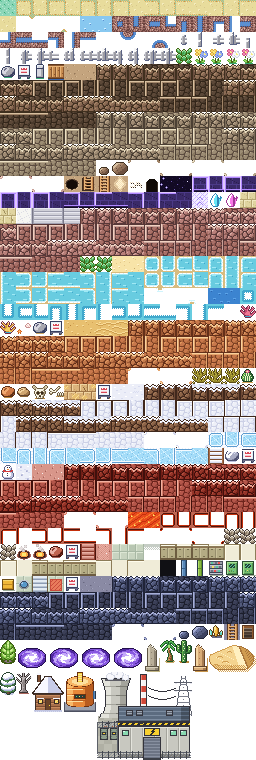
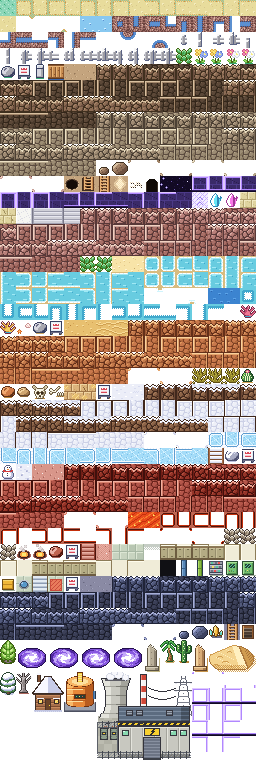
fix(safari): Ultra Space floor outlines continuous — bottom lip drawn after the side glow (no 2px overshoot at outer corners), new inner-corner overlays uplatc*, light-path edge overlays upathe* (placed in the free space right of the 2nd big-art row: every other tile keeps its position and bytes)
Claude-Session: https://claude.ai/code/session_01PyWJXhh4uoM1MhwTZs3jNF

Changed region(s): [[0.75, 0.8776, 1.0, 0.9987]]

diff --git a/web/img/safari-tiles.js b/web/img/safari-tiles.js
@@ -1,2 +1,2 @@
 // tools/build_safari_tiles.py 가 만듦 — 고치지 말 것. 타일 이름 → [x, y, w, h] (web/img/safari-tiles.png)
-export default {"ground":[0,0,16,16],"sand0":[16,0,16,16],"sand1":[32,0,16,16],"sand2":[48,0,16,16],"sand3":[64,0,16,16],"sand4":[80,0,16,16],"sand5":[96,0,16,16],"sand6":[112,0,16,16],"sand7":[128,0,16,16],"sand8":[144,0,16,16],"sand9":[160,0,16,16],"sand10":[176,0,16,16],"sand11":[192,0,16,16],"sand12":[208,0,16,16],"sand13":[224,0,16,16],"sand14":[240,0,16,16],"sand15":[0,16,16,16],"sandcne":[16,16,16,16],"sandcnw":[32,16,16,16],"sandcse":[48,16,16,16],"sandcsw":[64,16,16,16],"water0":[80,16,16,16],"water1":[96,16,16,16],"shore0":[112,16,16,16],"shore1":[128,16,16,16],"shore2":[144,16,16,16],"shore3":[160,16,16,16],"shore4":[176,16,16,16],"shore5":[192,16,16,16],"shore6":[208,16,16,16],"shore7":[224,16,16,16],"shore8":[240,16,16,16],"shore9":[0,32,16,16],"shore10":[16,32,16,16],"shore11":[32,32,16,16],"shore12":[48,32,16,16],"shore13":[64,32,16,16],"shore14":[80,32,16,16],"shore15":[96,32,16,16],"shorecne":[112,32,16,16],"shorecnw":[128,32,16,16],"shorecse":[144,32,16,16],"shorecsw":[160,32,16,16],"fence0":[176,32,16,16],"fence1":[192,32,16,16],"fence2":[208,32,16,16],"fence3":[224,32,16,16],"fence4":[240,32,16,16],"fence5":[0,48,16,16],"fence6":[16,48,16,16],"fence7":[32,48,16,16],"fence8":[48,48,16,16],"fence9":[64,48,16,16],"fence10":[80,48,16,16],"fence11":[96,48,16,16],"fence12":[112,48,16,16],"fence13":[128,48,16,16],"fence14":[144,48,16,16],"fence15":[160,48,16,16],"tall":[176,48,16,16],"flowerA0":[192,48,16,16],"flowerA1":[208,48,16,16],"flowerB0":[224,48,16,16],"flowerB1":[240,48,16,16],"rock":[0,64,16,16],"sign":[16,64,16,16],"post":[32,64,16,16],"bridge":[48,64,16,16],"cfloor0":[64,64,16,16],"cfloor1":[80,64,16,16],"cwall0_0":[96,64,16,16],"cwall0_1":[112,64,16,16],"cwall0_2":[128,64,16,16],"cwall1_0":[144,64,16,16],"cwall1_1":[160,64,16,16],"cwall1_2":[176,64,16,16],"cwall2_0":[192,64,16,16],"cwall2_1":[208,64,16,16],"cwall2_2":[224,64,16,16],"cwall3_0":[240,64,16,16],"cwall3_1":[0,80,16,16],"cwall3_2":[16,80,16,16],"cwall4_0":[32,80,16,16],"cwall4_1":[48,80,16,16],"cwall4_2":[64,80,16,16],"cwall5_0":[80,80,16,16],"cwall5_1":[96,80,16,16],"cwall5_2":[112,80,16,16],"cwall6_0":[128,80,16,16],"cwall6_1":[144,80,16,16],"cwall6_2":[160,80,16,16],"cwall7_0":[176,80,16,16],"cwall7_1":[192,80,16,16],"cwall7_2":[208,80,16,16],"cwall8_0":[224,80,16,16],"cwall8_1":[240,80,16,16],"cwall8_2":[0,96,16,16],"cwall9_0":[16,96,16,16],"cwall9_1":[32,96,16,16],"cwall9_2":[48,96,16,16],"cwall10_0":[64,96,16,16],"cwall10_1":[80,96,16,16],"cwall10_2":[96,96,16,16],"cwall11_0":[112,96,16,16],"cwall11_1":[128,96,16,16],"cwall11_2":[144,96,16,16],"cwall12_0":[160,96,16,16],"cwall12_1":[176,96,16,16],"cwall12_2":[192,96,16,16],"cwall13_0":[208,96,16,16],"cwall13_1":[224,96,16,16],"cwall13_2":[240,96,16,16],"cwall14_0":[0,112,16,16],"cwall14_1":[16,112,16,16],"cwall14_2":[32,112,16,16],"cwall15_0":[48,112,16,16],"cwall15_1":[64,112,16,16],"cwall15_2":[80,112,16,16],"mwall0_0":[96,112,16,16],"mwall0_1":[112,112,16,16],"mwall0_2":[128,112,16,16],"mwall1_0":[144,112,16,16],"mwall1_1":[160,112,16,16],"mwall1_2":[176,112,16,16],"mwall2_0":[192,112,16,16],"mwall2_1":[208,112,16,16],"mwall2_2":[224,112,16,16],"mwall3_0":[240,112,16,16],"mwall3_1":[0,128,16,16],"mwall3_2":[16,128,16,16],"mwall4_0":[32,128,16,16],"mwall4_1":[48,128,16,16],"mwall4_2":[64,128,16,16],"mwall5_0":[80,128,16,16],"mwall5_1":[96,128,16,16],"mwall5_2":[112,128,16,16],"mwall6_0":[128,128,16,16],"mwall6_1":[144,128,16,16],"mwall6_2":[160,128,16,16],"mwall7_0":[176,128,16,16],"mwall7_1":[192,128,16,16],"mwall7_2":[208,128,16,16],"mwall8_0":[224,128,16,16],"mwall8_1":[240,128,16,16],"mwall8_2":[0,144,16,16],"mwall9_0":[16,144,16,16],"mwall9_1":[32,144,16,16],"mwall9_2":[48,144,16,16],"mwall10_0":[64,144,16,16],"mwall10_1":[80,144,16,16],"mwall10_2":[96,144,16,16],"mwall11_0":[112,144,16,16],"mwall11_1":[128,144,16,16],"mwall11_2":[144,144,16,16],"mwall12_0":[160,144,16,16],"mwall12_1":[176,144,16,16],"mwall12_2":[192,144,16,16],"mwall13_0":[208,144,16,16],"mwall13_1":[224,144,16,16],"mwall13_2":[240,144,16,16],"mwall14_0":[0,160,16,16],"mwall14_1":[16,160,16,16],"mwall14_2":[32,160,16,16],"mwall15_0":[48,160,16,16],"mwall15_1":[64,160,16,16],"mwall15_2":[80,160,16,16],"crock":[96,160,16,16],"cboulder":[112,160,16,16],"cwallcnw":[128,160,16,16],"cwallcne":[144,160,16,16],"cwallcsw":[160,160,16,16],"cwallcse":[176,160,16,16],"mwallcnw":[192,160,16,16],"mwallcne":[208,160,16,16],"mwallcsw":[224,160,16,16],"mwallcse":[240,160,16,16],"pwallcnw":[0,176,16,16],"pwallcne":[16,176,16,16],"pwallcsw":[32,176,16,16],"pwallcse":[48,176,16,16],"chole":[64,176,16,16],"cladderD":[80,176,16,16],"cladderU":[96,176,16,16],"cexit":[112,176,16,16],"cbraille":[128,176,16,16],"mouth":[144,176,16,16],"uvoid0":[160,176,16,16],"uvoid1":[176,176,16,16],"uplat0":[192,176,16,16],"uplat1":[208,176,16,16],"uplat2":[224,176,16,16],"uplat3":[240,176,16,16],"uplat4":[0,192,16,16],"uplat5":[16,192,16,16],"uplat6":[32,192,16,16],"uplat7":[48,192,16,16],"uplat8":[64,192,16,16],"uplat9":[80,192,16,16],"uplat10":[96,192,16,16],"uplat11":[112,192,16,16],"uplat12":[128,192,16,16],"uplat13":[144,192,16,16],"uplat14":[160,192,16,16],"uplat15":[176,192,16,16],"upath":[192,192,16,16],"ucrystalA":[208,192,16,16],"ucrystalB":[224,192,16,16],"sfloor0":[240,192,16,16],"sfloor1":[0,208,16,16],"saltar":[16,208,16,16],"sstairsL":[32,208,16,16],"sstairsR":[48,208,16,16],"sstairsC":[64,208,16,16],"pwall0_0":[80,208,16,16],"pwall0_1":[96,208,16,16],"pwall0_2":[112,208,16,16],"pwall1_0":[128,208,16,16],"pwall1_1":[144,208,16,16],"pwall1_2":[160,208,16,16],"pwall2_0":[176,208,16,16],"pwall2_1":[192,208,16,16],"pwall2_2":[208,208,16,16],"pwall3_0":[224,208,16,16],"pwall3_1":[240,208,16,16],"pwall3_2":[0,224,16,16],"pwall4_0":[16,224,16,16],"pwall4_1":[32,224,16,16],"pwall4_2":[48,224,16,16],"pwall5_0":[64,224,16,16],"pwall5_1":[80,224,16,16],"pwall5_2":[96,224,16,16],"pwall6_0":[112,224,16,16],"pwall6_1":[128,224,16,16],"pwall6_2":[144,224,16,16],"pwall7_0":[160,224,16,16],"pwall7_1":[176,224,16,16],"pwall7_2":[192,224,16,16],"pwall8_0":[208,224,16,16],"pwall8_1":[224,224,16,16],"pwall8_2":[240,224,16,16],"pwall9_0":[0,240,16,16],"pwall9_1":[16,240,16,16],"pwall9_2":[32,240,16,16],"pwall10_0":[48,240,16,16],"pwall10_1":[64,240,16,16],"pwall10_2":[80,240,16,16],"pwall11_0":[96,240,16,16],"pwall11_1":[112,240,16,16],"pwall11_2":[128,240,16,16],"pwall12_0":[144,240,16,16],"pwall12_1":[160,240,16,16],"pwall12_2":[176,240,16,16],"pwall13_0":[192,240,16,16],"pwall13_1":[208,240,16,16],"pwall13_2":[224,240,16,16],"pwall14_0":[240,240,16,16],"pwall14_1":[0,256,16,16],"pwall14_2":[16,256,16,16],"pwall15_0":[32,256,16,16],"pwall15_1":[48,256,16,16],"pwall15_2":[64,256,16,16],"tallR0":[80,256,16,16],"tallR1":[96,256,16,16],"bsand0":[112,256,16,16],"bsand1":[128,256,16,16],"bshal0_0":[144,256,16,16],"bshal1_0":[160,256,16,16],"bshal2_0":[176,256,16,16],"bshal3_0":[192,256,16,16],"bshal4_0":[208,256,16,16],"bshal5_0":[224,256,16,16],"bshal6_0":[240,256,16,16],"bshal7_0":[0,272,16,16],"bshal8_0":[16,272,16,16],"bshal9_0":[32,272,16,16],"bshal10_0":[48,272,16,16],"bshal11_0":[64,272,16,16],"bshal12_0":[80,272,16,16],"bshal13_0":[96,272,16,16],"bshal14_0":[112,272,16,16],"bshal15_0":[128,272,16,16],"bshal0_1":[144,272,16,16],"bshal1_1":[160,272,16,16],"bshal2_1":[176,272,16,16],"bshal3_1":[192,272,16,16],"bshal4_1":[208,272,16,16],"bshal5_1":[224,272,16,16],"bshal6_1":[240,272,16,16],"bshal7_1":[0,288,16,16],"bshal8_1":[16,288,16,16],"bshal9_1":[32,288,16,16],"bshal10_1":[48,288,16,16],"bshal11_1":[64,288,16,16],"bshal12_1":[80,288,16,16],"bshal13_1":[96,288,16,16],"bshal14_1":[112,288,16,16],"bshal15_1":[128,288,16,16],"bshalcne":[144,288,16,16],"bshalcnw":[160,288,16,16],"bshalcse":[176,288,16,16],"bshalcsw":[192,288,16,16],"bdeep0":[208,288,16,16],"bdeep1":[224,288,16,16],"bdeepe0":[240,288,16,16],"bdeepe1":[0,304,16,16],"bdeepe2":[16,304,16,16],"bdeepe3":[32,304,16,16],"bdeepe4":[48,304,16,16],"bdeepe5":[64,304,16,16],"bdeepe6":[80,304,16,16],"bdeepe7":[96,304,16,16],"bdeepe8":[112,304,16,16],"bdeepe9":[128,304,16,16],"bdeepe10":[144,304,16,16],"bdeepe11":[160,304,16,16],"bdeepe12":[176,304,16,16],"bdeepe13":[192,304,16,16],"bdeepe14":[208,304,16,16],"bdeepe15":[224,304,16,16],"bcoralA":[240,304,16,16],"bcoralB":[0,320,16,16],"bshell":[16,320,16,16],"brock":[32,320,16,16],"bsign":[48,320,16,16],"dsand0":[64,320,16,16],"dsand1":[80,320,16,16],"dripple0":[96,320,16,16],"dripple1":[112,320,16,16],"dwall0_0":[128,320,16,16],"dwall0_1":[144,320,16,16],"dwall0_2":[160,320,16,16],"dwall1_0":[176,320,16,16],"dwall1_1":[192,320,16,16],"dwall1_2":[208,320,16,16],"dwall2_0":[224,320,16,16],"dwall2_1":[240,320,16,16],"dwall2_2":[0,336,16,16],"dwall3_0":[16,336,16,16],"dwall3_1":[32,336,16,16],"dwall3_2":[48,336,16,16],"dwall4_0":[64,336,16,16],"dwall4_1":[80,336,16,16],"dwall4_2":[96,336,16,16],"dwall5_0":[112,336,16,16],"dwall5_1":[128,336,16,16],"dwall5_2":[144,336,16,16],"dwall6_0":[160,336,16,16],"dwall6_1":[176,336,16,16],"dwall6_2":[192,336,16,16],"dwall7_0":[208,336,16,16],"dwall7_1":[224,336,16,16],"dwall7_2":[240,336,16,16],"dwall8_0":[0,352,16,16],"dwall8_1":[16,352,16,16],"dwall8_2":[32,352,16,16],"dwall9_0":[48,352,16,16],"dwall9_1":[64,352,16,16],"dwall9_2":[80,352,16,16],"dwall10_0":[96,352,16,16],"dwall10_1":[112,352,16,16],"dwall10_2":[128,352,16,16],"dwall11_0":[144,352,16,16],"dwall11_1":[160,352,16,16],"dwall11_2":[176,352,16,16],"dwall12_0":[192,352,16,16],"dwall12_1":[208,352,16,16],"dwall12_2":[224,352,16,16],"dwall13_0":[240,352,16,16],"dwall13_1":[0,368,16,16],"dwall13_2":[16,368,16,16],"dwall14_0":[32,368,16,16],"dwall14_1":[48,368,16,16],"dwall14_2":[64,368,16,16],"dwall15_0":[80,368,16,16],"dwall15_1":[96,368,16,16],"dwall15_2":[112,368,16,16],"dwallcnw":[128,368,16,16],"dwallcne":[144,368,16,16],"dwallcsw":[160,368,16,16],"dwallcse":[176,368,16,16],"dgrass":[192,368,16,16],"dgrassR0":[208,368,16,16],"dgrassR1":[224,368,16,16],"dcactusS":[240,368,16,16],"drock":[0,384,16,16],"drubble":[16,384,16,16],"dskull":[32,384,16,16],"dbones":[48,384,16,16],"druin0":[64,384,16,16],"druin1":[80,384,16,16],"dsign":[96,384,16,16],"snground0":[112,384,16,16],"snground1":[128,384,16,16],"swall0_0":[144,384,16,16],"swall0_1":[160,384,16,16],"swall0_2":[176,384,16,16],"swall1_0":[192,384,16,16],"swall1_1":[208,384,16,16],"swall1_2":[224,384,16,16],"swall2_0":[240,384,16,16],"swall2_1":[0,400,16,16],"swall2_2":[16,400,16,16],"swall3_0":[32,400,16,16],"swall3_1":[48,400,16,16],"swall3_2":[64,400,16,16],"swall4_0":[80,400,16,16],"swall4_1":[96,400,16,16],"swall4_2":[112,400,16,16],"swall5_0":[128,400,16,16],"swall5_1":[144,400,16,16],"swall5_2":[160,400,16,16],"swall6_0":[176,400,16,16],"swall6_1":[192,400,16,16],"swall6_2":[208,400,16,16],"swall7_0":[224,400,16,16],"swall7_1":[240,400,16,16],"swall7_2":[0,416,16,16],"swall8_0":[16,416,16,16],"swall8_1":[32,416,16,16],"swall8_2":[48,416,16,16],"swall9_0":[64,416,16,16],"swall9_1":[80,416,16,16],"swall9_2":[96,416,16,16],"swall10_0":[112,416,16,16],"swall10_1":[128,416,16,16],"swall10_2":[144,416,16,16],"swall11_0":[160,416,16,16],"swall11_1":[176,416,16,16],"swall11_2":[192,416,16,16],"swall12_0":[208,416,16,16],"swall12_1":[224,416,16,16],"swall12_2":[240,416,16,16],"swall13_0":[0,432,16,16],"swall13_1":[16,432,16,16],"swall13_2":[32,432,16,16],"swall14_0":[48,432,16,16],"swall14_1":[64,432,16,16],"swall14_2":[80,432,16,16],"swall15_0":[96,432,16,16],"swall15_1":[112,432,16,16],"swall15_2":[128,432,16,16],"swallcnw":[144,432,16,16],"swallcne":[160,432,16,16],"swallcsw":[176,432,16,16],"swallcse":[192,432,16,16],"snice0":[208,432,16,16],"snice1":[224,432,16,16],"snice2":[240,432,16,16],"snice3":[0,448,16,16],"snice4":[16,448,16,16],"snice5":[32,448,16,16],"snice6":[48,448,16,16],"snice7":[64,448,16,16],"snice8":[80,448,16,16],"snice9":[96,448,16,16],"snice10":[112,448,16,16],"snice11":[128,448,16,16],"snice12":[144,448,16,16],"snice13":[160,448,16,16],"snice14":[176,448,16,16],"snice15":[192,448,16,16],"snstairs":[208,448,16,16],"snrock":[224,448,16,16],"snsign":[240,448,16,16],"snman":[0,464,16,16],"snexit":[16,464,16,16],"lvground0":[32,464,16,16],"lvground1":[48,464,16,16],"lwall0_0":[64,464,16,16],"lwall0_1":[80,464,16,16],"lwall0_2":[96,464,16,16],"lwall1_0":[112,464,16,16],"lwall1_1":[128,464,16,16],"lwall1_2":[144,464,16,16],"lwall2_0":[160,464,16,16],"lwall2_1":[176,464,16,16],"lwall2_2":[192,464,16,16],"lwall3_0":[208,464,16,16],"lwall3_1":[224,464,16,16],"lwall3_2":[240,464,16,16],"lwall4_0":[0,480,16,16],"lwall4_1":[16,480,16,16],"lwall4_2":[32,480,16,16],"lwall5_0":[48,480,16,16],"lwall5_1":[64,480,16,16],"lwall5_2":[80,480,16,16],"lwall6_0":[96,480,16,16],"lwall6_1":[112,480,16,16],"lwall6_2":[128,480,16,16],"lwall7_0":[144,480,16,16],"lwall7_1":[160,480,16,16],"lwall7_2":[176,480,16,16],"lwall8_0":[192,480,16,16],"lwall8_1":[208,480,16,16],"lwall8_2":[224,480,16,16],"lwall9_0":[240,480,16,16],"lwall9_1":[0,496,16,16],"lwall9_2":[16,496,16,16],"lwall10_0":[32,496,16,16],"lwall10_1":[48,496,16,16],"lwall10_2":[64,496,16,16],"lwall11_0":[80,496,16,16],"lwall11_1":[96,496,16,16],"lwall11_2":[112,496,16,16],"lwall12_0":[128,496,16,16],"lwall12_1":[144,496,16,16],"lwall12_2":[160,496,16,16],"lwall13_0":[176,496,16,16],"lwall13_1":[192,496,16,16],"lwall13_2":[208,496,16,16],"lwall14_0":[224,496,16,16],"lwall14_1":[240,496,16,16],"lwall14_2":[0,512,16,16],"lwall15_0":[16,512,16,16],"lwall15_1":[32,512,16,16],"lwall15_2":[48,512,16,16],"lwallcnw":[64,512,16,16],"lwallcne":[80,512,16,16],"lwallcsw":[96,512,16,16],"lwallcse":[112,512,16,16],"lava0":[128,512,16,16],"lava1":[144,512,16,16],"lavae0":[160,512,16,16],"lavae1":[176,512,16,16],"lavae2":[192,512,16,16],"lavae3":[208,512,16,16],"lavae4":[224,512,16,16],"lavae5":[240,512,16,16],"lavae6":[0,528,16,16],"lavae7":[16,528,16,16],"lavae8":[32,528,16,16],"lavae9":[48,528,16,16],"lavae10":[64,528,16,16],"lavae11":[80,528,16,16],"lavae12":[96,528,16,16],"lavae13":[112,528,16,16],"lavae14":[128,528,16,16],"lavae15":[144,528,16,16],"lavacnw":[160,528,16,16],"lavacne":[176,528,16,16],"lavacsw":[192,528,16,16],"lavacse":[208,528,16,16],"lvgrass":[224,528,16,16],"lvgrassR0":[240,528,16,16],"lvgrassR1":[0,544,16,16],"lvvent0":[16,544,16,16],"lvvent1":[32,544,16,16],"lvrock":[48,544,16,16],"lvsign":[64,544,16,16],"lvstairs":[80,544,16,16],"lvexit":[96,544,16,16],"plfloor0":[112,544,16,16],"plfloor1":[128,544,16,16],"plshadow":[144,544,16,16],"plw0":[160,544,16,16],"plw1":[176,544,16,16],"plw2":[192,544,16,16],"plw3":[208,544,16,16],"plw4":[224,544,16,16],"plw5":[240,544,16,16],"plw6":[0,560,16,16],"plw7":[16,560,16,16],"plw8":[32,560,16,16],"plw9":[48,560,16,16],"plw10":[64,560,16,16],"plw11":[80,560,16,16],"plw12":[96,560,16,16],"plw13":[112,560,16,16],"plw14":[128,560,16,16],"plw15":[144,560,16,16],"plvoid":[160,560,16,16],"plpipeB":[176,560,16,16],"plpipeG":[192,560,16,16],"plrack":[208,560,16,16],"plcon0":[224,560,16,16],"plcon1":[240,560,16,16],"plcrate":[0,576,16,16],"plswitch":[16,576,16,16],"plstairs":[32,576,16,16],"plexit":[48,576,16,16],"plsign":[64,576,16,16],"efloor0":[80,576,16,16],"efloor1":[96,576,16,16],"ewall0_0":[112,576,16,16],"ewall0_1":[128,576,16,16],"ewall0_2":[144,576,16,16],"ewall1_0":[160,576,16,16],"ewall1_1":[176,576,16,16],"ewall1_2":[192,576,16,16],"ewall2_0":[208,576,16,16],"ewall2_1":[224,576,16,16],"ewall2_2":[240,576,16,16],"ewall3_0":[0,592,16,16],"ewall3_1":[16,592,16,16],"ewall3_2":[32,592,16,16],"ewall4_0":[48,592,16,16],"ewall4_1":[64,592,16,16],"ewall4_2":[80,592,16,16],"ewall5_0":[96,592,16,16],"ewall5_1":[112,592,16,16],"ewall5_2":[128,592,16,16],"ewall6_0":[144,592,16,16],"ewall6_1":[160,592,16,16],"ewall6_2":[176,592,16,16],"ewall7_0":[192,592,16,16],"ewall7_1":[208,592,16,16],"ewall7_2":[224,592,16,16],"ewall8_0":[240,592,16,16],"ewall8_1":[0,608,16,16],"ewall8_2":[16,608,16,16],"ewall9_0":[32,608,16,16],"ewall9_1":[48,608,16,16],"ewall9_2":[64,608,16,16],"ewall10_0":[80,608,16,16],"ewall10_1":[96,608,16,16],"ewall10_2":[112,608,16,16],"ewall11_0":[128,608,16,16],"ewall11_1":[144,608,16,16],"ewall11_2":[160,608,16,16],"ewall12_0":[176,608,16,16],"ewall12_1":[192,608,16,16],"ewall12_2":[208,608,16,16],"ewall13_0":[224,608,16,16],"ewall13_1":[240,608,16,16],"ewall13_2":[0,624,16,16],"ewall14_0":[16,624,16,16],"ewall14_1":[32,624,16,16],"ewall14_2":[48,624,16,16],"ewall15_0":[64,624,16,16],"ewall15_1":[80,624,16,16],"ewall15_2":[96,624,16,16],"ewallcnw":[112,624,16,16],"ewallcne":[128,624,16,16],"ewallcsw":[144,624,16,16],"ewallcse":[160,624,16,16],"erock":[176,624,16,16],"eboulder":[192,624,16,16],"ecrystal":[208,624,16,16],"eladder":[224,624,16,16],"bstair":[240,624,16,16],"tree":[0,640,16,24],"worm0":[16,640,32,32],"worm1":[48,640,32,32],"worm2":[80,640,32,32],"worm3":[112,640,32,32],"spillar":[144,640,16,32],"palm":[160,640,16,24],"dcactus":[176,640,16,24],"dpillar":[192,640,16,32],"ddune":[208,640,48,32],"snpine":[0,672,16,24],"lvtree":[16,672,16,24],"sncabin":[32,672,32,40],"plgen":[64,672,32,40],"plbuild":[96,672,96,88]};
+export default {"ground":[0,0,16,16],"sand0":[16,0,16,16],"sand1":[32,0,16,16],"sand2":[48,0,16,16],"sand3":[64,0,16,16],"sand4":[80,0,16,16],"sand5":[96,0,16,16],"sand6":[112,0,16,16],"sand7":[128,0,16,16],"sand8":[144,0,16,16],"sand9":[160,0,16,16],"sand10":[176,0,16,16],"sand11":[192,0,16,16],"sand12":[208,0,16,16],"sand13":[224,0,16,16],"sand14":[240,0,16,16],"sand15":[0,16,16,16],"sandcne":[16,16,16,16],"sandcnw":[32,16,16,16],"sandcse":[48,16,16,16],"sandcsw":[64,16,16,16],"water0":[80,16,16,16],"water1":[96,16,16,16],"shore0":[112,16,16,16],"shore1":[128,16,16,16],"shore2":[144,16,16,16],"shore3":[160,16,16,16],"shore4":[176,16,16,16],"shore5":[192,16,16,16],"shore6":[208,16,16,16],"shore7":[224,16,16,16],"shore8":[240,16,16,16],"shore9":[0,32,16,16],"shore10":[16,32,16,16],"shore11":[32,32,16,16],"shore12":[48,32,16,16],"shore13":[64,32,16,16],"shore14":[80,32,16,16],"shore15":[96,32,16,16],"shorecne":[112,32,16,16],"shorecnw":[128,32,16,16],"shorecse":[144,32,16,16],"shorecsw":[160,32,16,16],"fence0":[176,32,16,16],"fence1":[192,32,16,16],"fence2":[208,32,16,16],"fence3":[224,32,16,16],"fence4":[240,32,16,16],"fence5":[0,48,16,16],"fence6":[16,48,16,16],"fence7":[32,48,16,16],"fence8":[48,48,16,16],"fence9":[64,48,16,16],"fence10":[80,48,16,16],"fence11":[96,48,16,16],"fence12":[112,48,16,16],"fence13":[128,48,16,16],"fence14":[144,48,16,16],"fence15":[160,48,16,16],"tall":[176,48,16,16],"flowerA0":[192,48,16,16],"flowerA1":[208,48,16,16],"flowerB0":[224,48,16,16],"flowerB1":[240,48,16,16],"rock":[0,64,16,16],"sign":[16,64,16,16],"post":[32,64,16,16],"bridge":[48,64,16,16],"cfloor0":[64,64,16,16],"cfloor1":[80,64,16,16],"cwall0_0":[96,64,16,16],"cwall0_1":[112,64,16,16],"cwall0_2":[128,64,16,16],"cwall1_0":[144,64,16,16],"cwall1_1":[160,64,16,16],"cwall1_2":[176,64,16,16],"cwall2_0":[192,64,16,16],"cwall2_1":[208,64,16,16],"cwall2_2":[224,64,16,16],"cwall3_0":[240,64,16,16],"cwall3_1":[0,80,16,16],"cwall3_2":[16,80,16,16],"cwall4_0":[32,80,16,16],"cwall4_1":[48,80,16,16],"cwall4_2":[64,80,16,16],"cwall5_0":[80,80,16,16],"cwall5_1":[96,80,16,16],"cwall5_2":[112,80,16,16],"cwall6_0":[128,80,16,16],"cwall6_1":[144,80,16,16],"cwall6_2":[160,80,16,16],"cwall7_0":[176,80,16,16],"cwall7_1":[192,80,16,16],"cwall7_2":[208,80,16,16],"cwall8_0":[224,80,16,16],"cwall8_1":[240,80,16,16],"cwall8_2":[0,96,16,16],"cwall9_0":[16,96,16,16],"cwall9_1":[32,96,16,16],"cwall9_2":[48,96,16,16],"cwall10_0":[64,96,16,16],"cwall10_1":[80,96,16,16],"cwall10_2":[96,96,16,16],"cwall11_0":[112,96,16,16],"cwall11_1":[128,96,16,16],"cwall11_2":[144,96,16,16],"cwall12_0":[160,96,16,16],"cwall12_1":[176,96,16,16],"cwall12_2":[192,96,16,16],"cwall13_0":[208,96,16,16],"cwall13_1":[224,96,16,16],"cwall13_2":[240,96,16,16],"cwall14_0":[0,112,16,16],"cwall14_1":[16,112,16,16],"cwall14_2":[32,112,16,16],"cwall15_0":[48,112,16,16],"cwall15_1":[64,112,16,16],"cwall15_2":[80,112,16,16],"mwall0_0":[96,112,16,16],"mwall0_1":[112,112,16,16],"mwall0_2":[128,112,16,16],"mwall1_0":[144,112,16,16],"mwall1_1":[160,112,16,16],"mwall1_2":[176,112,16,16],"mwall2_0":[192,112,16,16],"mwall2_1":[208,112,16,16],"mwall2_2":[224,112,16,16],"mwall3_0":[240,112,16,16],"mwall3_1":[0,128,16,16],"mwall3_2":[16,128,16,16],"mwall4_0":[32,128,16,16],"mwall4_1":[48,128,16,16],"mwall4_2":[64,128,16,16],"mwall5_0":[80,128,16,16],"mwall5_1":[96,128,16,16],"mwall5_2":[112,128,16,16],"mwall6_0":[128,128,16,16],"mwall6_1":[144,128,16,16],"mwall6_2":[160,128,16,16],"mwall7_0":[176,128,16,16],"mwall7_1":[192,128,16,16],"mwall7_2":[208,128,16,16],"mwall8_0":[224,128,16,16],"mwall8_1":[240,128,16,16],"mwall8_2":[0,144,16,16],"mwall9_0":[16,144,16,16],"mwall9_1":[32,144,16,16],"mwall9_2":[48,144,16,16],"mwall10_0":[64,144,16,16],"mwall10_1":[80,144,16,16],"mwall10_2":[96,144,16,16],"mwall11_0":[112,144,16,16],"mwall11_1":[128,144,16,16],"mwall11_2":[144,144,16,16],"mwall12_0":[160,144,16,16],"mwall12_1":[176,144,16,16],"mwall12_2":[192,144,16,16],"mwall13_0":[208,144,16,16],"mwall13_1":[224,144,16,16],"mwall13_2":[240,144,16,16],"mwall14_0":[0,160,16,16],"mwall14_1":[16,160,16,16],"mwall14_2":[32,160,16,16],"mwall15_0":[48,160,16,16],"mwall15_1":[64,160,16,16],"mwall15_2":[80,160,16,16],"crock":[96,160,16,16],"cboulder":[112,160,16,16],"cwallcnw":[128,160,16,16],"cwallcne":[144,160,16,16],"cwallcsw":[160,160,16,16],"cwallcse":[176,160,16,16],"mwallcnw":[192,160,16,16],"mwallcne":[208,160,16,16],"mwallcsw":[224,160,16,16],"mwallcse":[240,160,16,16],"pwallcnw":[0,176,16,16],"pwallcne":[16,176,16,16],"pwallcsw":[32,176,16,16],"pwallcse":[48,176,16,16],"chole":[64,176,16,16],"cladderD":[80,176,16,16],"cladderU":[96,176,16,16],"cexit":[112,176,16,16],"cbraille":[128,176,16,16],"mouth":[144,176,16,16],"uvoid0":[160,176,16,16],"uvoid1":[176,176,16,16],"uplat0":[192,176,16,16],"uplat1":[208,176,16,16],"uplat2":[224,176,16,16],"uplat3":[240,176,16,16],"uplat4":[0,192,16,16],"uplat5":[16,192,16,16],"uplat6":[32,192,16,16],"uplat7":[48,192,16,16],"uplat8":[64,192,16,16],"uplat9":[80,192,16,16],"uplat10":[96,192,16,16],"uplat11":[112,192,16,16],"uplat12":[128,192,16,16],"uplat13":[144,192,16,16],"uplat14":[160,192,16,16],"uplat15":[176,192,16,16],"upath":[192,192,16,16],"ucrystalA":[208,192,16,16],"ucrystalB":[224,192,16,16],"sfloor0":[240,192,16,16],"sfloor1":[0,208,16,16],"saltar":[16,208,16,16],"sstairsL":[32,208,16,16],"sstairsR":[48,208,16,16],"sstairsC":[64,208,16,16],"pwall0_0":[80,208,16,16],"pwall0_1":[96,208,16,16],"pwall0_2":[112,208,16,16],"pwall1_0":[128,208,16,16],"pwall1_1":[144,208,16,16],"pwall1_2":[160,208,16,16],"pwall2_0":[176,208,16,16],"pwall2_1":[192,208,16,16],"pwall2_2":[208,208,16,16],"pwall3_0":[224,208,16,16],"pwall3_1":[240,208,16,16],"pwall3_2":[0,224,16,16],"pwall4_0":[16,224,16,16],"pwall4_1":[32,224,16,16],"pwall4_2":[48,224,16,16],"pwall5_0":[64,224,16,16],"pwall5_1":[80,224,16,16],"pwall5_2":[96,224,16,16],"pwall6_0":[112,224,16,16],"pwall6_1":[128,224,16,16],"pwall6_2":[144,224,16,16],"pwall7_0":[160,224,16,16],"pwall7_1":[176,224,16,16],"pwall7_2":[192,224,16,16],"pwall8_0":[208,224,16,16],"pwall8_1":[224,224,16,16],"pwall8_2":[240,224,16,16],"pwall9_0":[0,240,16,16],"pwall9_1":[16,240,16,16],"pwall9_2":[32,240,16,16],"pwall10_0":[48,240,16,16],"pwall10_1":[64,240,16,16],"pwall10_2":[80,240,16,16],"pwall11_0":[96,240,16,16],"pwall11_1":[112,240,16,16],"pwall11_2":[128,240,16,16],"pwall12_0":[144,240,16,16],"pwall12_1":[160,240,16,16],"pwall12_2":[176,240,16,16],"pwall13_0":[192,240,16,16],"pwall13_1":[208,240,16,16],"pwall13_2":[224,240,16,16],"pwall14_0":[240,240,16,16],"pwall14_1":[0,256,16,16],"pwall14_2":[16,256,16,16],"pwall15_0":[32,256,16,16],"pwall15_1":[48,256,16,16],"pwall15_2":[64,256,16,16],"tallR0":[80,256,16,16],"tallR1":[96,256,16,16],"bsand0":[112,256,16,16],"bsand1":[128,256,16,16],"bshal0_0":[144,256,16,16],"bshal1_0":[160,256,16,16],"bshal2_0":[176,256,16,16],"bshal3_0":[192,256,16,16],"bshal4_0":[208,256,16,16],"bshal5_0":[224,256,16,16],"bshal6_0":[240,256,16,16],"bshal7_0":[0,272,16,16],"bshal8_0":[16,272,16,16],"bshal9_0":[32,272,16,16],"bshal10_0":[48,272,16,16],"bshal11_0":[64,272,16,16],"bshal12_0":[80,272,16,16],"bshal13_0":[96,272,16,16],"bshal14_0":[112,272,16,16],"bshal15_0":[128,272,16,16],"bshal0_1":[144,272,16,16],"bshal1_1":[160,272,16,16],"bshal2_1":[176,272,16,16],"bshal3_1":[192,272,16,16],"bshal4_1":[208,272,16,16],"bshal5_1":[224,272,16,16],"bshal6_1":[240,272,16,16],"bshal7_1":[0,288,16,16],"bshal8_1":[16,288,16,16],"bshal9_1":[32,288,16,16],"bshal10_1":[48,288,16,16],"bshal11_1":[64,288,16,16],"bshal12_1":[80,288,16,16],"bshal13_1":[96,288,16,16],"bshal14_1":[112,288,16,16],"bshal15_1":[128,288,16,16],"bshalcne":[144,288,16,16],"bshalcnw":[160,288,16,16],"bshalcse":[176,288,16,16],"bshalcsw":[192,288,16,16],"bdeep0":[208,288,16,16],"bdeep1":[224,288,16,16],"bdeepe0":[240,288,16,16],"bdeepe1":[0,304,16,16],"bdeepe2":[16,304,16,16],"bdeepe3":[32,304,16,16],"bdeepe4":[48,304,16,16],"bdeepe5":[64,304,16,16],"bdeepe6":[80,304,16,16],"bdeepe7":[96,304,16,16],"bdeepe8":[112,304,16,16],"bdeepe9":[128,304,16,16],"bdeepe10":[144,304,16,16],"bdeepe11":[160,304,16,16],"bdeepe12":[176,304,16,16],"bdeepe13":[192,304,16,16],"bdeepe14":[208,304,16,16],"bdeepe15":[224,304,16,16],"bcoralA":[240,304,16,16],"bcoralB":[0,320,16,16],"bshell":[16,320,16,16],"brock":[32,320,16,16],"bsign":[48,320,16,16],"dsand0":[64,320,16,16],"dsand1":[80,320,16,16],"dripple0":[96,320,16,16],"dripple1":[112,320,16,16],"dwall0_0":[128,320,16,16],"dwall0_1":[144,320,16,16],"dwall0_2":[160,320,16,16],"dwall1_0":[176,320,16,16],"dwall1_1":[192,320,16,16],"dwall1_2":[208,320,16,16],"dwall2_0":[224,320,16,16],"dwall2_1":[240,320,16,16],"dwall2_2":[0,336,16,16],"dwall3_0":[16,336,16,16],"dwall3_1":[32,336,16,16],"dwall3_2":[48,336,16,16],"dwall4_0":[64,336,16,16],"dwall4_1":[80,336,16,16],"dwall4_2":[96,336,16,16],"dwall5_0":[112,336,16,16],"dwall5_1":[128,336,16,16],"dwall5_2":[144,336,16,16],"dwall6_0":[160,336,16,16],"dwall6_1":[176,336,16,16],"dwall6_2":[192,336,16,16],"dwall7_0":[208,336,16,16],"dwall7_1":[224,336,16,16],"dwall7_2":[240,336,16,16],"dwall8_0":[0,352,16,16],"dwall8_1":[16,352,16,16],"dwall8_2":[32,352,16,16],"dwall9_0":[48,352,16,16],"dwall9_1":[64,352,16,16],"dwall9_2":[80,352,16,16],"dwall10_0":[96,352,16,16],"dwall10_1":[112,352,16,16],"dwall10_2":[128,352,16,16],"dwall11_0":[144,352,16,16],"dwall11_1":[160,352,16,16],"dwall11_2":[176,352,16,16],"dwall12_0":[192,352,16,16],"dwall12_1":[208,352,16,16],"dwall12_2":[224,352,16,16],"dwall13_0":[240,352,16,16],"dwall13_1":[0,368,16,16],"dwall13_2":[16,368,16,16],"dwall14_0":[32,368,16,16],"dwall14_1":[48,368,16,16],"dwall14_2":[64,368,16,16],"dwall15_0":[80,368,16,16],"dwall15_1":[96,368,16,16],"dwall15_2":[112,368,16,16],"dwallcnw":[128,368,16,16],"dwallcne":[144,368,16,16],"dwallcsw":[160,368,16,16],"dwallcse":[176,368,16,16],"dgrass":[192,368,16,16],"dgrassR0":[208,368,16,16],"dgrassR1":[224,368,16,16],"dcactusS":[240,368,16,16],"drock":[0,384,16,16],"drubble":[16,384,16,16],"dskull":[32,384,16,16],"dbones":[48,384,16,16],"druin0":[64,384,16,16],"druin1":[80,384,16,16],"dsign":[96,384,16,16],"snground0":[112,384,16,16],"snground1":[128,384,16,16],"swall0_0":[144,384,16,16],"swall0_1":[160,384,16,16],"swall0_2":[176,384,16,16],"swall1_0":[192,384,16,16],"swall1_1":[208,384,16,16],"swall1_2":[224,384,16,16],"swall2_0":[240,384,16,16],"swall2_1":[0,400,16,16],"swall2_2":[16,400,16,16],"swall3_0":[32,400,16,16],"swall3_1":[48,400,16,16],"swall3_2":[64,400,16,16],"swall4_0":[80,400,16,16],"swall4_1":[96,400,16,16],"swall4_2":[112,400,16,16],"swall5_0":[128,400,16,16],"swall5_1":[144,400,16,16],"swall5_2":[160,400,16,16],"swall6_0":[176,400,16,16],"swall6_1":[192,400,16,16],"swall6_2":[208,400,16,16],"swall7_0":[224,400,16,16],"swall7_1":[240,400,16,16],"swall7_2":[0,416,16,16],"swall8_0":[16,416,16,16],"swall8_1":[32,416,16,16],"swall8_2":[48,416,16,16],"swall9_0":[64,416,16,16],"swall9_1":[80,416,16,16],"swall9_2":[96,416,16,16],"swall10_0":[112,416,16,16],"swall10_1":[128,416,16,16],"swall10_2":[144,416,16,16],"swall11_0":[160,416,16,16],"swall11_1":[176,416,16,16],"swall11_2":[192,416,16,16],"swall12_0":[208,416,16,16],"swall12_1":[224,416,16,16],"swall12_2":[240,416,16,16],"swall13_0":[0,432,16,16],"swall13_1":[16,432,16,16],"swall13_2":[32,432,16,16],"swall14_0":[48,432,16,16],"swall14_1":[64,432,16,16],"swall14_2":[80,432,16,16],"swall15_0":[96,432,16,16],"swall15_1":[112,432,16,16],"swall15_2":[128,432,16,16],"swallcnw":[144,432,16,16],"swallcne":[160,432,16,16],"swallcsw":[176,432,16,16],"swallcse":[192,432,16,16],"snice0":[208,432,16,16],"snice1":[224,432,16,16],"snice2":[240,432,16,16],"snice3":[0,448,16,16],"snice4":[16,448,16,16],"snice5":[32,448,16,16],"snice6":[48,448,16,16],"snice7":[64,448,16,16],"snice8":[80,448,16,16],"snice9":[96,448,16,16],"snice10":[112,448,16,16],"snice11":[128,448,16,16],"snice12":[144,448,16,16],"snice13":[160,448,16,16],"snice14":[176,448,16,16],"snice15":[192,448,16,16],"snstairs":[208,448,16,16],"snrock":[224,448,16,16],"snsign":[240,448,16,16],"snman":[0,464,16,16],"snexit":[16,464,16,16],"lvground0":[32,464,16,16],"lvground1":[48,464,16,16],"lwall0_0":[64,464,16,16],"lwall0_1":[80,464,16,16],"lwall0_2":[96,464,16,16],"lwall1_0":[112,464,16,16],"lwall1_1":[128,464,16,16],"lwall1_2":[144,464,16,16],"lwall2_0":[160,464,16,16],"lwall2_1":[176,464,16,16],"lwall2_2":[192,464,16,16],"lwall3_0":[208,464,16,16],"lwall3_1":[224,464,16,16],"lwall3_2":[240,464,16,16],"lwall4_0":[0,480,16,16],"lwall4_1":[16,480,16,16],"lwall4_2":[32,480,16,16],"lwall5_0":[48,480,16,16],"lwall5_1":[64,480,16,16],"lwall5_2":[80,480,16,16],"lwall6_0":[96,480,16,16],"lwall6_1":[112,480,16,16],"lwall6_2":[128,480,16,16],"lwall7_0":[144,480,16,16],"lwall7_1":[160,480,16,16],"lwall7_2":[176,480,16,16],"lwall8_0":[192,480,16,16],"lwall8_1":[208,480,16,16],"lwall8_2":[224,480,16,16],"lwall9_0":[240,480,16,16],"lwall9_1":[0,496,16,16],"lwall9_2":[16,496,16,16],"lwall10_0":[32,496,16,16],"lwall10_1":[48,496,16,16],"lwall10_2":[64,496,16,16],"lwall11_0":[80,496,16,16],"lwall11_1":[96,496,16,16],"lwall11_2":[112,496,16,16],"lwall12_0":[128,496,16,16],"lwall12_1":[144,496,16,16],"lwall12_2":[160,496,16,16],"lwall13_0":[176,496,16,16],"lwall13_1":[192,496,16,16],"lwall13_2":[208,496,16,16],"lwall14_0":[224,496,16,16],"lwall14_1":[240,496,16,16],"lwall14_2":[0,512,16,16],"lwall15_0":[16,512,16,16],"lwall15_1":[32,512,16,16],"lwall15_2":[48,512,16,16],"lwallcnw":[64,512,16,16],"lwallcne":[80,512,16,16],"lwallcsw":[96,512,16,16],"lwallcse":[112,512,16,16],"lava0":[128,512,16,16],"lava1":[144,512,16,16],"lavae0":[160,512,16,16],"lavae1":[176,512,16,16],"lavae2":[192,512,16,16],"lavae3":[208,512,16,16],"lavae4":[224,512,16,16],"lavae5":[240,512,16,16],"lavae6":[0,528,16,16],"lavae7":[16,528,16,16],"lavae8":[32,528,16,16],"lavae9":[48,528,16,16],"lavae10":[64,528,16,16],"lavae11":[80,528,16,16],"lavae12":[96,528,16,16],"lavae13":[112,528,16,16],"lavae14":[128,528,16,16],"lavae15":[144,528,16,16],"lavacnw":[160,528,16,16],"lavacne":[176,528,16,16],"lavacsw":[192,528,16,16],"lavacse":[208,528,16,16],"lvgrass":[224,528,16,16],"lvgrassR0":[240,528,16,16],"lvgrassR1":[0,544,16,16],"lvvent0":[16,544,16,16],"lvvent1":[32,544,16,16],"lvrock":[48,544,16,16],"lvsign":[64,544,16,16],"lvstairs":[80,544,16,16],"lvexit":[96,544,16,16],"plfloor0":[112,544,16,16],"plfloor1":[128,544,16,16],"plshadow":[144,544,16,16],"plw0":[160,544,16,16],"plw1":[176,544,16,16],"plw2":[192,544,16,16],"plw3":[208,544,16,16],"plw4":[224,544,16,16],"plw5":[240,544,16,16],"plw6":[0,560,16,16],"plw7":[16,560,16,16],"plw8":[32,560,16,16],"plw9":[48,560,16,16],"plw10":[64,560,16,16],"plw11":[80,560,16,16],"plw12":[96,560,16,16],"plw13":[112,560,16,16],"plw14":[128,560,16,16],"plw15":[144,560,16,16],"plvoid":[160,560,16,16],"plpipeB":[176,560,16,16],"plpipeG":[192,560,16,16],"plrack":[208,560,16,16],"plcon0":[224,560,16,16],"plcon1":[240,560,16,16],"plcrate":[0,576,16,16],"plswitch":[16,576,16,16],"plstairs":[32,576,16,16],"plexit":[48,576,16,16],"plsign":[64,576,16,16],"efloor0":[80,576,16,16],"efloor1":[96,576,16,16],"ewall0_0":[112,576,16,16],"ewall0_1":[128,576,16,16],"ewall0_2":[144,576,16,16],"ewall1_0":[160,576,16,16],"ewall1_1":[176,576,16,16],"ewall1_2":[192,576,16,16],"ewall2_0":[208,576,16,16],"ewall2_1":[224,576,16,16],"ewall2_2":[240,576,16,16],"ewall3_0":[0,592,16,16],"ewall3_1":[16,592,16,16],"ewall3_2":[32,592,16,16],"ewall4_0":[48,592,16,16],"ewall4_1":[64,592,16,16],"ewall4_2":[80,592,16,16],"ewall5_0":[96,592,16,16],"ewall5_1":[112,592,16,16],"ewall5_2":[128,592,16,16],"ewall6_0":[144,592,16,16],"ewall6_1":[160,592,16,16],"ewall6_2":[176,592,16,16],"ewall7_0":[192,592,16,16],"ewall7_1":[208,592,16,16],"ewall7_2":[224,592,16,16],"ewall8_0":[240,592,16,16],"ewall8_1":[0,608,16,16],"ewall8_2":[16,608,16,16],"ewall9_0":[32,608,16,16],"ewall9_1":[48,608,16,16],"ewall9_2":[64,608,16,16],"ewall10_0":[80,608,16,16],"ewall10_1":[96,608,16,16],"ewall10_2":[112,608,16,16],"ewall11_0":[128,608,16,16],"ewall11_1":[144,608,16,16],"ewall11_2":[160,608,16,16],"ewall12_0":[176,608,16,16],"ewall12_1":[192,608,16,16],"ewall12_2":[208,608,16,16],"ewall13_0":[224,608,16,16],"ewall13_1":[240,608,16,16],"ewall13_2":[0,624,16,16],"ewall14_0":[16,624,16,16],"ewall14_1":[32,624,16,16],"ewall14_2":[48,624,16,16],"ewall15_0":[64,624,16,16],"ewall15_1":[80,624,16,16],"ewall15_2":[96,624,16,16],"ewallcnw":[112,624,16,16],"ewallcne":[128,624,16,16],"ewallcsw":[144,624,16,16],"ewallcse":[160,624,16,16],"erock":[176,624,16,16],"eboulder":[192,624,16,16],"ecrystal":[208,624,16,16],"eladder":[224,624,16,16],"bstair":[240,624,16,16],"tree":[0,640,16,24],"worm0":[16,640,32,32],"worm1":[48,640,32,32],"worm2":[80,640,32,32],"worm3":[112,640,32,32],"spillar":[144,640,16,32],"palm":[160,640,16,24],"dcactus":[176,640,16,24],"dpillar":[192,640,16,32],"ddune":[208,640,48,32],"snpine":[0,672,16,24],"lvtree":[16,672,16,24],"sncabin":[32,672,32,40],"plgen":[64,672,32,40],"plbuild":[96,672,96,88],"uplatcnw":[192,672,16,16],"uplatcne":[208,672,16,16],"uplatcsw":[224,672,16,16],"uplatcse":[240,672,16,16],"upathe0":[192,688,16,16],"upathe1":[208,688,16,16],"upathe2":[224,688,16,16],"upathe3":[240,688,16,16],"upathe4":[192,704,16,16],"upathe5":[208,704,16,16],"upathe6":[224,704,16,16],"upathe7":[240,704,16,16],"upathe8":[192,720,16,16],"upathe9":[208,720,16,16],"upathe10":[224,720,16,16],"upathe11":[240,720,16,16],"upathe12":[192,736,16,16],"upathe13":[208,736,16,16],"upathe14":[224,736,16,16],"upathe15":[240,736,16,16]};

diff --git a/web/js/safari.js b/web/js/safari.js
@@ -188,9 +188,11 @@ function prerender(sheet, f, m) {
       const c = R[y][x], X = x * TS, Y = y * TS;
       if (m.kind === 'ultra') {
         if (c === 'X') { put(`uvoid${(f + x + y) & 1}`, X, Y); continue; }
-        put(`uplat${maskOf(x, y, (k) => k !== 'X')}`, X, Y);
-        if (c === '=') put('upath', X, Y);
+        const plat = (k) => k !== 'X', mk = maskOf(x, y, plat);
+        put(`uplat${mk}`, X, Y);
+        if (c === '=') { put('upath', X, Y); put(`upathe${mk}`, X, Y); }   // ui8: 빛의 길도 빈 우주 쪽 가장자리
         else if (c === 'K') put(`ucrystal${(x + y) & 1 ? 'B' : 'A'}`, X, Y);
+        for (const k of corners(x, y, mk, plat)) put(`uplatc${k}`, X, Y);   // ui8: 안쪽 모서리 (옆 칸 가장자리가 끊기지 않게)
         continue;
       }
       if (m.kind === 'beach') {      // 0040 해변: 모래 · 얕은 물 (물거품 테두리) · 깊은 바다 · 산호 · 바닷가 풀숲 · 바위 · 조개 (야자나무는 아래에서 따로)

diff --git a/tools/build_safari_tiles.py b/tools/build_safari_tiles.py
@@ -17,6 +17,7 @@
   cladderD cladderU cexit      내려가는/올라가는 사다리 · 밖으로 나가는 밝은 칸
   cbraille mouth               벽면 점자 (덧그림) · 바깥 바위벽 동굴 입구 (덧그림)
   uvoid<0-1> uplat<0-15>       울트라 스페이스 빈 우주 (별 반짝 2장) · 떠 있는 발판 (숫자 = 이웃도 발판)
+  uplatc<nw|ne|sw|se> upathe<0-15>  (ui8) 발판 안쪽 모서리 덧그림 · 빛의 길 가장자리 덧그림 — 둘째 줄 큰 그림 오른쪽 빈 곳 (x 192~255)
   upath ucrystalA ucrystalB    밝은 빛의 길 (덧그림) · 빛나는 수정 (청록 / 분홍)
   worm<0-3>                    울트라 워프홀 소용돌이 32×32 (4장 돌기)
   sfloor<0-1> saltar sstairs<L|R|C>  제단 방 돌바닥 · 흰 대리석 제단 · 돌계단 (난간 쪽)
@@ -736,14 +737,42 @@ def uplat(mask):
             if (x * 7 + y * 3) % 17 == 0:
                 c = UP['p2']
             t.px(x, y, c)
+    return uedge(t, mask)
+
+
+def uedge(t, mask):
+    """발판 가장자리 (빈 우주 쪽): 위 · 옆 = 밝은 2줄, 아래 = 밝은 줄 + 두께 그늘 + 빈 우주.
+    ui8: 아래 두께를 옆줄 다음에 그림 (예전엔 옆줄이 두께 줄 위로 2도트 삐져나와 아래 모서리가 어긋났음)."""
     N, E, S, W = mask & 1, mask & 2, mask & 4, mask & 8
     for i in range(16):
         if not N: t.px(i, 0, UP['pE']); t.px(i, 1, UP['pe'])
         if not W: t.px(0, i, UP['pE']); t.px(1, i, UP['pe'])
         if not E: t.px(15, i, UP['pE']); t.px(14, i, UP['pe'])
-        if not S:   # 발판 두께 (아래로 떨어지는 그늘)
+    if not S:   # 발판 두께 (아래로 떨어지는 그늘)
+        for i in range(16):
             t.px(i, 13, UP['pe']); t.px(i, 14, UP['p2']); t.px(i, 15, UP['v0'])
+        if not W: t.px(0, 13, UP['pE'])        # 옆 밝은 줄이 아래 밝은 줄과 만나는 바깥 모서리
+        if not E: t.px(15, 13, UP['pE'])
     return t
+
+
+def uplatc(c):
+    """(ui8) 발판 안쪽 모서리 덧그림: 두 옆은 발판인데 대각선만 빈 우주 → 옆 칸들의 밝은 줄이 이 칸 모서리에서 이어지게."""
+    t = Tile()
+    if c in ('nw', 'ne'):
+        x0, x1 = (0, 1) if c == 'nw' else (15, 14)
+        t.px(x0, 0, UP['pE']); t.px(x1, 0, UP['pe']); t.px(x0, 1, UP['pe']); t.px(x1, 1, UP['pe'])
+    else:   # 아래 모서리: 옆 칸의 두께 줄 (13 밝은 줄) 이 아래 칸의 옆줄로 꺾여 내려감
+        x0, x1 = (0, 1) if c == 'sw' else (15, 14)
+        t.px(x0, 13, UP['pE']); t.px(x1, 13, UP['pe'])
+        for y in (14, 15):
+            t.px(x0, y, UP['pE']); t.px(x1, y, UP['pe'])
+    return t
+
+
+def upathe(mask):
+    """(ui8) 빛의 길 가장자리 덧그림: 길은 칸을 다 덮어서 빈 우주 쪽 가장자리가 없었음 → 발판과 같은 가장자리를 길 위에."""
+    return uedge(Tile(), mask)
 
 
 def upath():
@@ -2562,6 +2591,13 @@ def build():
     for name, im, x in [('snpine', snpine(), 0), ('lvtree', lvtree(), 16), ('sncabin', sncabin(), 32), ('plgen', plgen(), 64), ('plbuild', plbuild(), 96)]:
         sheet.paste(im.im, (x, y2))
         idx[name] = [x, y2, im.w, im.h]
+    # ui8: 울트라 발판 안쪽 모서리 4장 + 빛의 길 가장자리 16장 = 둘째 줄 오른쪽 빈 곳 (x 192~255 · 4칸 × 5줄) → 앞 그림 자리 · 그림판 크기 그대로
+    extra = [(f'uplatc{c}', uplatc(c)) for c in ('nw', 'ne', 'sw', 'se')] + [(f'upathe{m}', upathe(m)) for m in range(16)]
+    for i, (name, t) in enumerate(extra):
+        x, y = 192 + (i % 4) * TS, y2 + (i // 4) * TS
+        assert y + TS <= sheet.height
+        sheet.paste(t.im, (x, y))
+        idx[name] = [x, y, TS, TS]
     return sheet, idx
 
 
